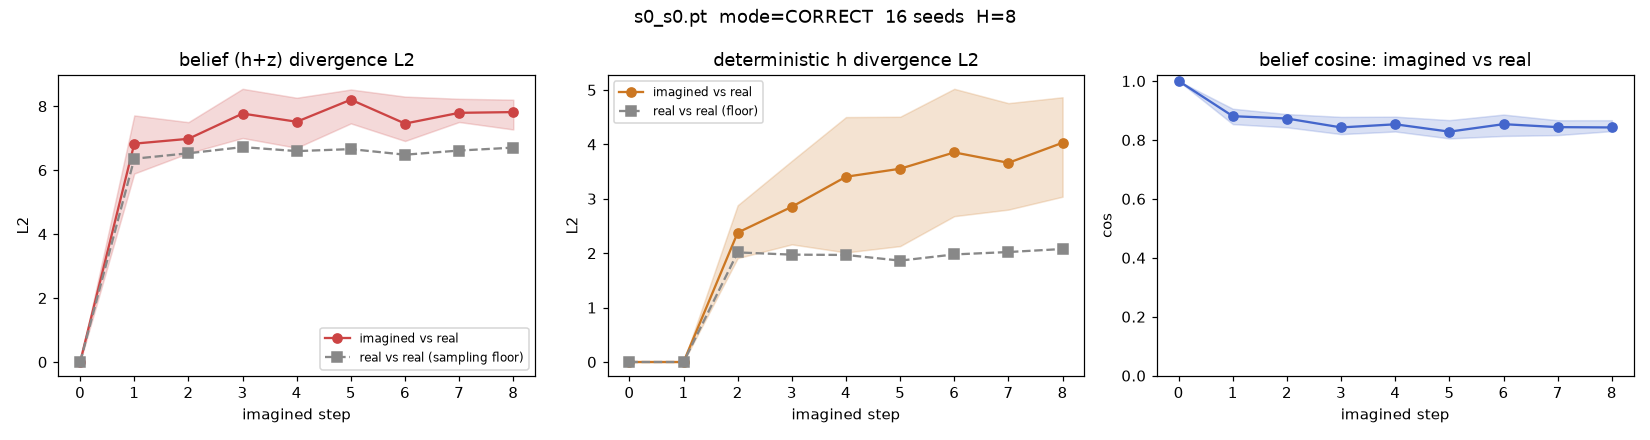
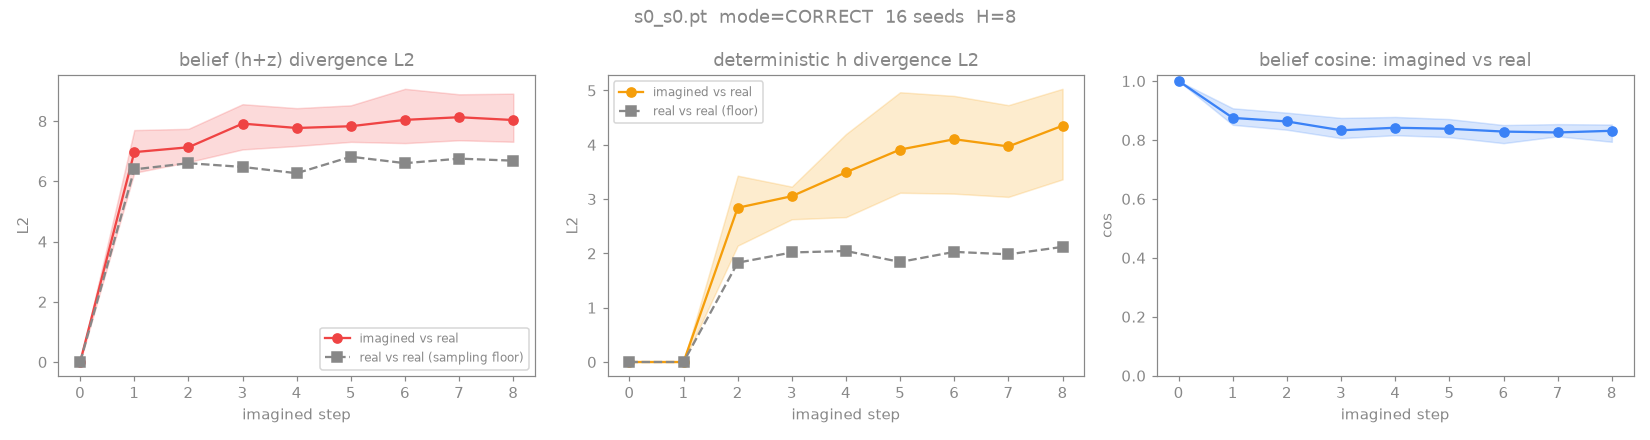
fix: GIF frame timing + house plot style for exp0053 figures
Two issues the maintainer flagged on the exp0053 report figures:

1. GIFs played fast regardless of --fps. Root cause: imageio.mimsave's `duration`
   kwarg silently failed to write the per-frame delay (GIFs had duration=None →
   viewer default ~10fps), and a max(fps,1) clamp broke sub-1 fps. Rewrote write_gif
   to use PIL directly (duration in ms, sub-1 fps supported). Verified: 2000 ms/frame.

2. imagine_report figures didn't match the house plot style. Applied the same
   transparent-bg + neutral-gray-chrome rcParams + shared palette as
   plot_experiment.py, and savefig(transparent=True).

Regenerated the embedded exp0053 assets (baseline/collapsed fidelity plots + a slow
2s/frame side-by-side GIF) from the EXISTING checkpoints — no experiment rerun needed.

diff --git a/scripts/imagine_report.py b/scripts/imagine_report.py
@@ -43,6 +43,27 @@ from crafter_rtfm import ManualMode
 matplotlib.use("Agg")
 import matplotlib.pyplot as plt  # noqa: E402
 
+# House plot style — mirror scripts/plot_experiment.py so these diagnostic figures match the other
+# experiment-report assets: transparent background + neutral-gray chrome (reads on light or dark),
+# saturated palette legible against either. Saved with transparent=True so the page theme shows.
+_GRAY = "#888888"
+plt.rcParams.update(
+    {
+        "text.color": _GRAY,
+        "axes.labelcolor": _GRAY,
+        "axes.titlecolor": _GRAY,
+        "axes.edgecolor": _GRAY,
+        "xtick.color": _GRAY,
+        "ytick.color": _GRAY,
+        "grid.color": _GRAY,
+        "figure.facecolor": "none",
+        "axes.facecolor": "none",
+        "savefig.facecolor": "none",
+    }
+)
+# Shared palette with plot_experiment.py (blue, red, green, amber, purple, cyan).
+_BLUE, _RED, _GREEN, _AMBER = "#3b82f6", "#ef4444", "#22c55e", "#f59e0b"
+
 sys.path.insert(0, str(Path(__file__).resolve().parent))
 from PIL import Image, ImageDraw  # noqa: E402
 from visualize_rtfm import _FONT, ACTION_NAMES, GAME_PX, write_gif  # noqa: E402
@@ -318,32 +339,32 @@ def main() -> None:
 
     fig, ax = plt.subplots(1, 3, figsize=(15, 4))
     # full belief (h+z) — what the policy/heads actually consume
-    ax[0].plot(steps, l2_mean, "-o", color="#cc4444", label="imagined vs real")
+    ax[0].plot(steps, l2_mean, "-o", color=_RED, label="imagined vs real")
     ax[0].fill_between(
         steps,
         np.nanpercentile(l2m, 25, 0),
         np.nanpercentile(l2m, 75, 0),
         alpha=0.2,
-        color="#cc4444",
+        color=_RED,
     )
-    ax[0].plot(steps, noise_mean, "--s", color="#888888", label="real vs real (sampling floor)")
+    ax[0].plot(steps, noise_mean, "--s", color=_GRAY, label="real vs real (sampling floor)")
     ax[0].legend(fontsize=8)
     ax[0].set(title="belief (h+z) divergence L2", xlabel="imagined step", ylabel="L2")
     # deterministic h only — clean recurrent-dynamics fidelity (un-inflated by z sampling)
-    ax[1].plot(steps, h_mean, "-o", color="#cc7722", label="imagined vs real")
+    ax[1].plot(steps, h_mean, "-o", color=_AMBER, label="imagined vs real")
     ax[1].fill_between(
-        steps, np.nanpercentile(hm, 25, 0), np.nanpercentile(hm, 75, 0), alpha=0.2, color="#cc7722"
+        steps, np.nanpercentile(hm, 25, 0), np.nanpercentile(hm, 75, 0), alpha=0.2, color=_AMBER
     )
-    ax[1].plot(steps, h_noise_mean, "--s", color="#888888", label="real vs real (floor)")
+    ax[1].plot(steps, h_noise_mean, "--s", color=_GRAY, label="real vs real (floor)")
     ax[1].legend(fontsize=8)
     ax[1].set(title="deterministic h divergence L2", xlabel="imagined step", ylabel="L2")
-    ax[2].plot(steps, cos_mean, "-o", color="#4466cc")
+    ax[2].plot(steps, cos_mean, "-o", color=_BLUE)
     ax[2].fill_between(
         steps,
         np.nanpercentile(cosm, 25, 0),
         np.nanpercentile(cosm, 75, 0),
         alpha=0.2,
-        color="#4466cc",
+        color=_BLUE,
     )
     ax[2].set(
         title="belief cosine: imagined vs real",
@@ -354,7 +375,7 @@ def main() -> None:
     fig.suptitle(f"{ckpt.name}  mode={args.mode}  {args.seeds} seeds  H={args.horizon}")
     fig.tight_layout()
     plot_path = out_dir / "fidelity.png"
-    fig.savefig(plot_path, dpi=110)
+    fig.savefig(plot_path, dpi=110, transparent=True)
     print(f"wrote {plot_path}")
 
     print("\n=== imagination fidelity summary (imagined-vs-real | sampling floor) ===")

diff --git a/scripts/visualize_rtfm.py b/scripts/visualize_rtfm.py
@@ -27,7 +27,6 @@ import textwrap
 from pathlib import Path
 
 import crafter_rtfm as C
-import imageio.v2 as imageio
 import numpy as np
 import torch
 from crafter_rtfm import ManualMode
@@ -108,12 +107,17 @@ def compose_frame(game_rgb: np.ndarray, panel_lines: list[str]) -> np.ndarray:
     return np.asarray(canvas, dtype=np.uint8)
 
 
-def write_gif(frames: list[np.ndarray], path: str | Path, fps: int) -> None:
-    """Write a list of RGB uint8 frames to a looping GIF at ``fps`` frames/sec."""
+def write_gif(frames: list[np.ndarray], path: str | Path, fps: float) -> None:
+    """Write RGB uint8 frames to a looping GIF at ``fps`` frames/sec.
+
+    Uses PIL directly (not imageio.mimsave, whose ``duration`` kwarg silently failed to write the
+    per-frame delay — GIFs then defaulted to ~10 fps regardless of ``fps``). PIL ``duration`` is
+    milliseconds per frame; sub-1 fps (slow, readable) is supported."""
     path = Path(path)
     path.parent.mkdir(parents=True, exist_ok=True)
-    duration = 1.0 / max(fps, 1)
-    imageio.mimsave(path, frames, format="GIF", duration=duration, loop=0)
+    imgs = [Image.fromarray(np.ascontiguousarray(f)) for f in frames]
+    ms = max(20, int(round(1000.0 / fps)))  # per-frame delay; floor avoids a 0 ms "fastest" delay
+    imgs[0].save(path, save_all=True, append_images=imgs[1:], duration=ms, loop=0, disposal=2)
 
 
 def _wrap(text: str, width: int = 46) -> list[str]:
